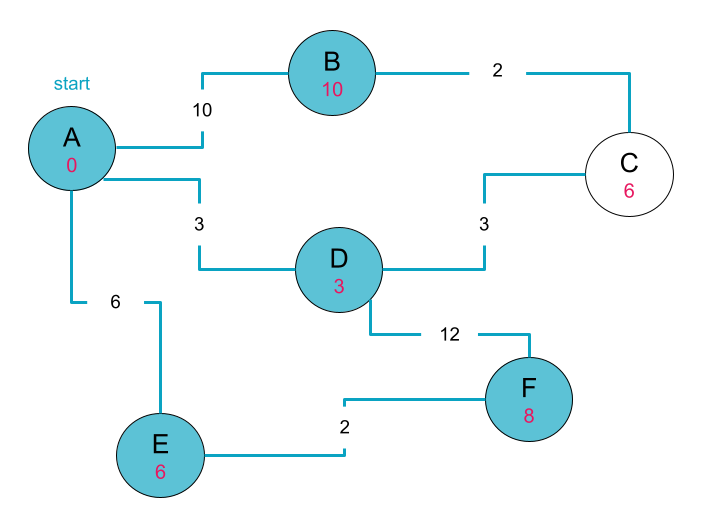
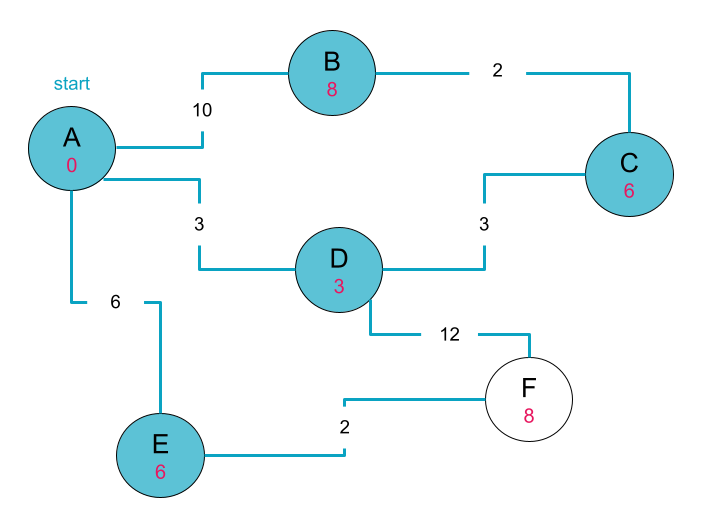
Update step 6 explanation

Changed region(s): [[0.7989, 0.2406, 0.9525, 0.4211], [0.676, 0.6617, 0.7989, 0.8421], [0.4302, 0.1504, 0.4916, 0.1805]]

diff --git a/09-graphs-p2/02-dijkstra.md b/09-graphs-p2/02-dijkstra.md
@@ -125,36 +125,30 @@ visited nodes: A, D, C, E
 
 costs/distances:
     - A: 0
-    - B: 10
-    - C: 12
+    - B: 8
+    - C: 6
     - D: 3
     - E: 6
-    - F: 15
+    - F: 8
 ```
 
 ![Dijkstra's Walkthrough Part 6](./images/dijkstras-6.png)
-Step 6. We move on to the next node in the queue, Node C. 
+Step 6. Once again, we have a tie for the unvisited node that is the least far from the start node, Node A. Node B and Node F have equivalent listed cost/distance of 8 from Node A. Let's choose to visit Node B.
 
-Node C's neighbors Node B and Node D have already been visited, so we do not need to perform any other further calculations.
-
-We add Node C to the list of visited nodes. Node C has no unvisited neighbors so we do not need to add anything to the queue.
-
-In fact, we can move on to the next node in the queue. Notice that the next node in the queue is also Node C. Because Node C has now also been visit it, we are free to skip over it and move on to the next node in the queue, Node F.
+Node B has no unvisited neighbors, so we so we do not need to perform any further calculations. 
 
 ```
-current: C
+current: B
 
-visited nodes: A, B, D, E, C 
-
-queue: C, F, F
+visited nodes: A, D, C, E, B
 
 costs/distances:
     - A: 0
-    - B: 10
-    - C: 12
+    - B: 8
+    - C: 6
     - D: 3
     - E: 6
-    - F: 15
+    - F: 8
 ```
 
 ![Dijkstra's Walkthrough Part 7](./images/dijkstras-7.png)
